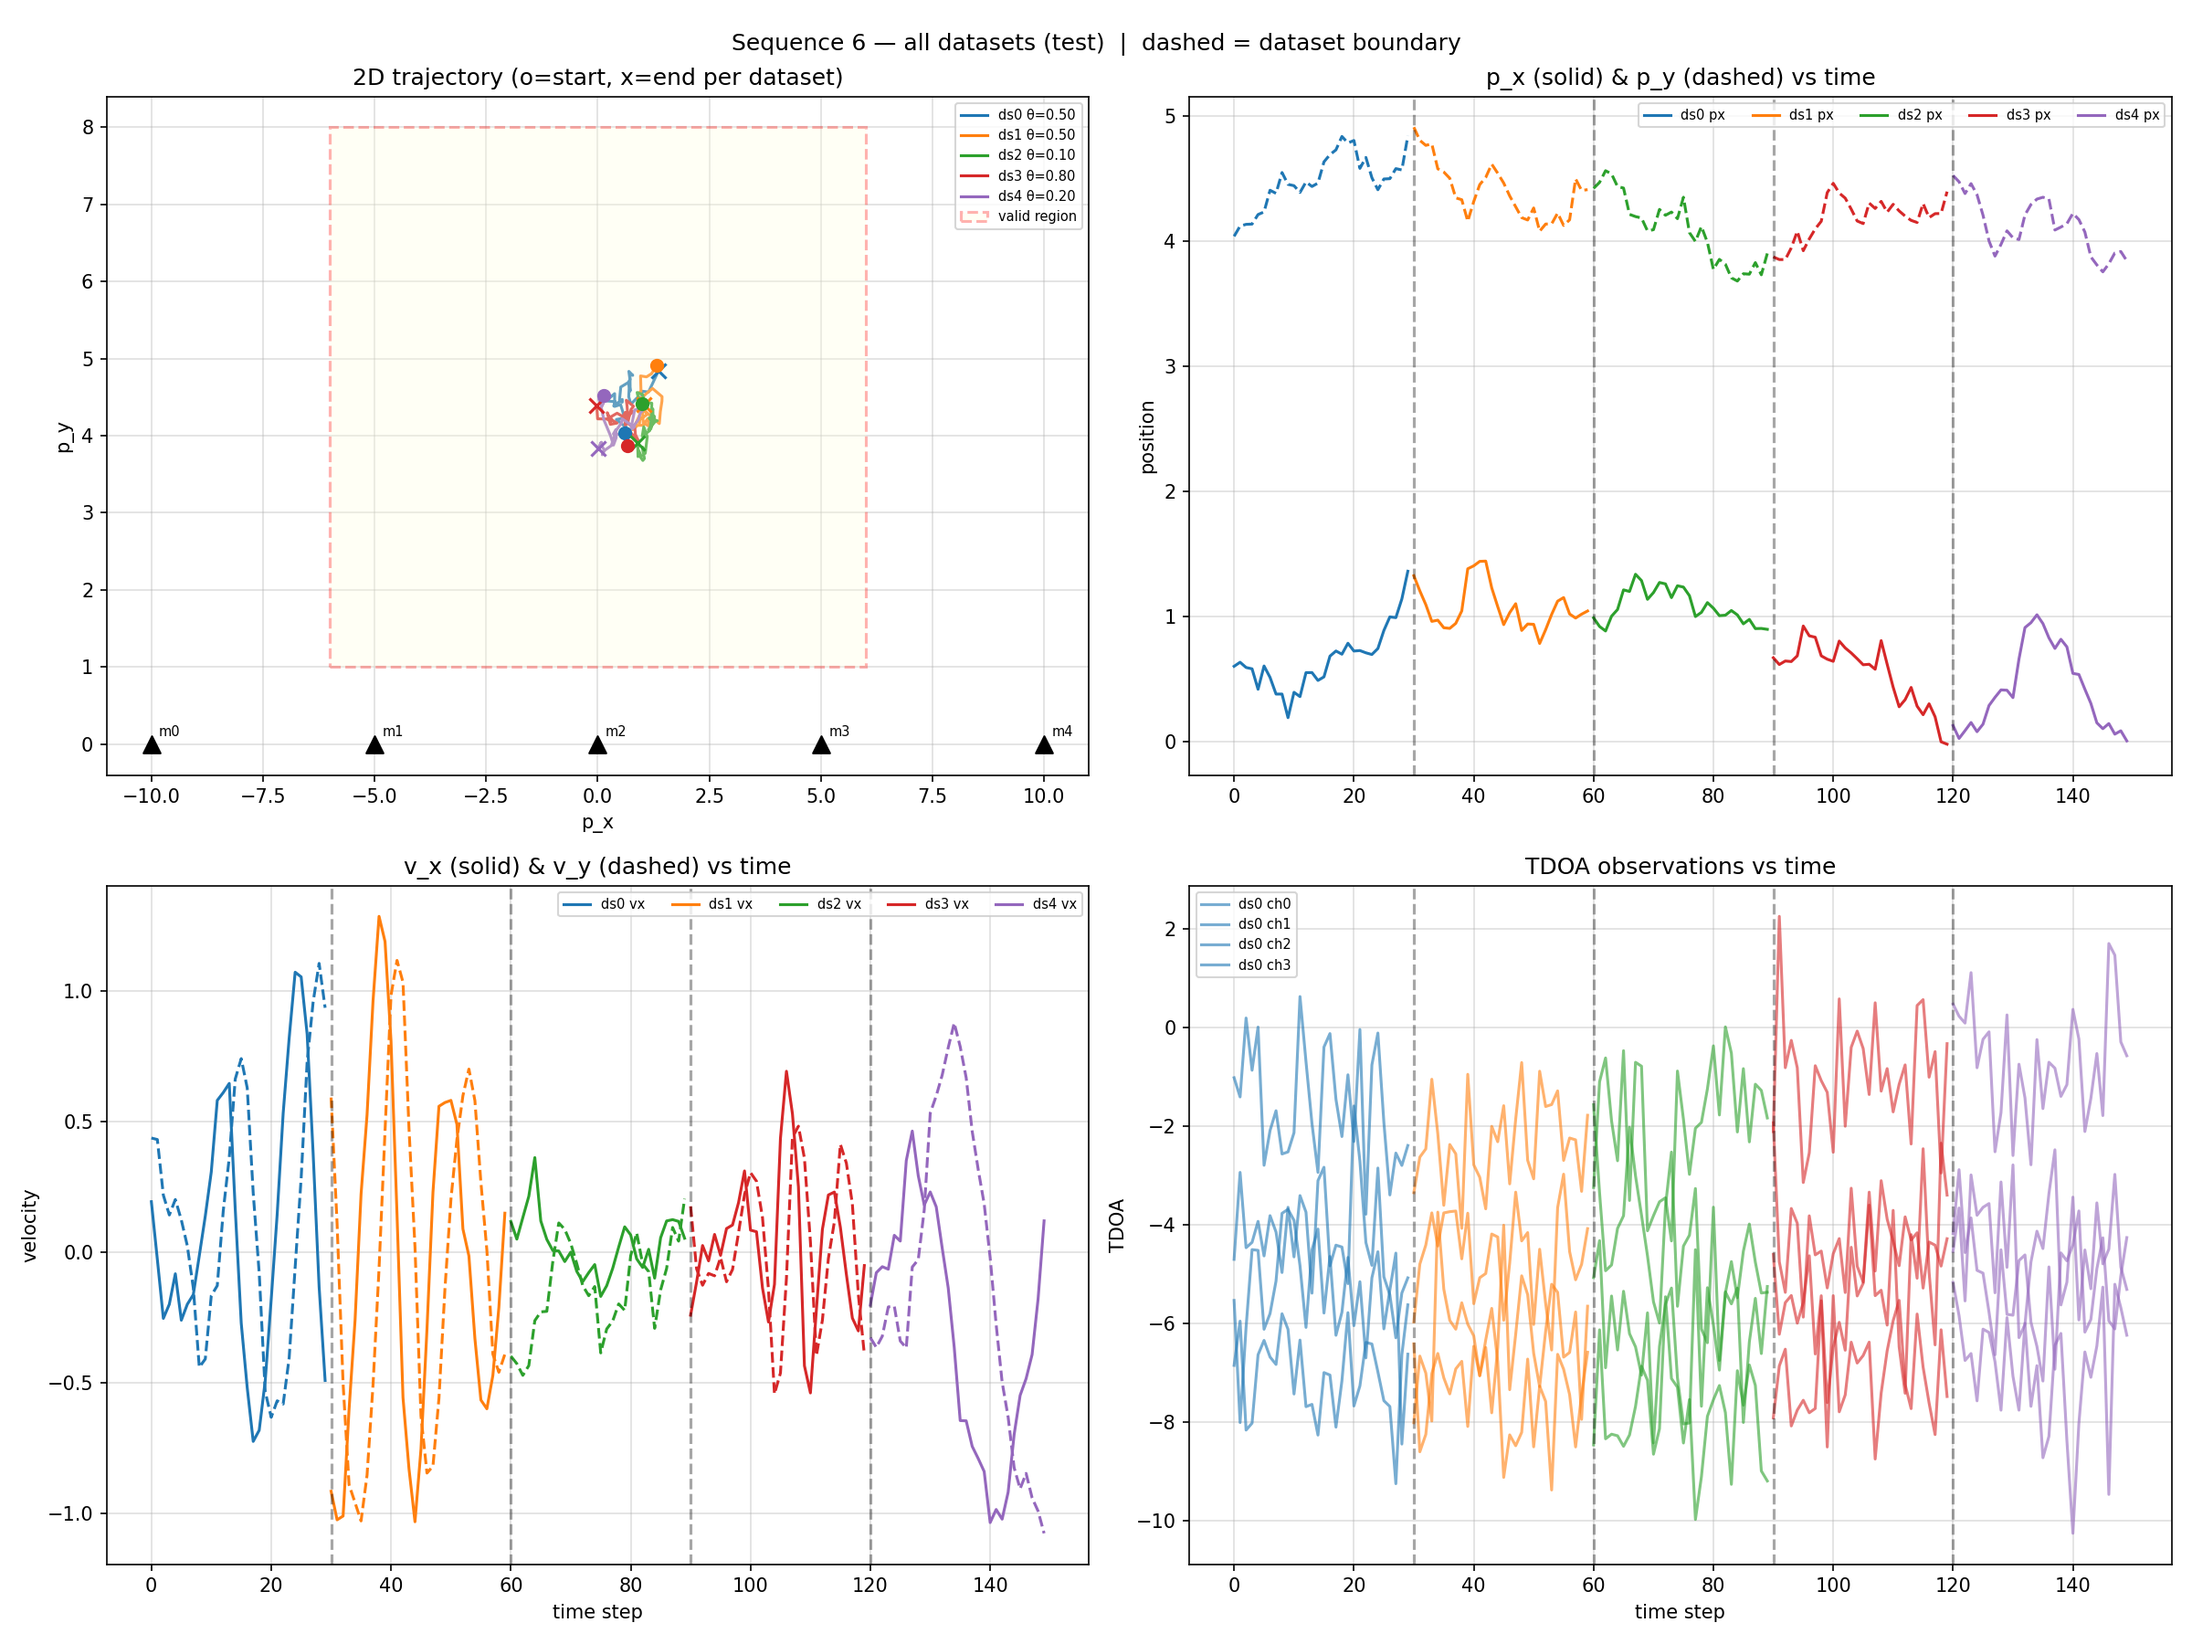
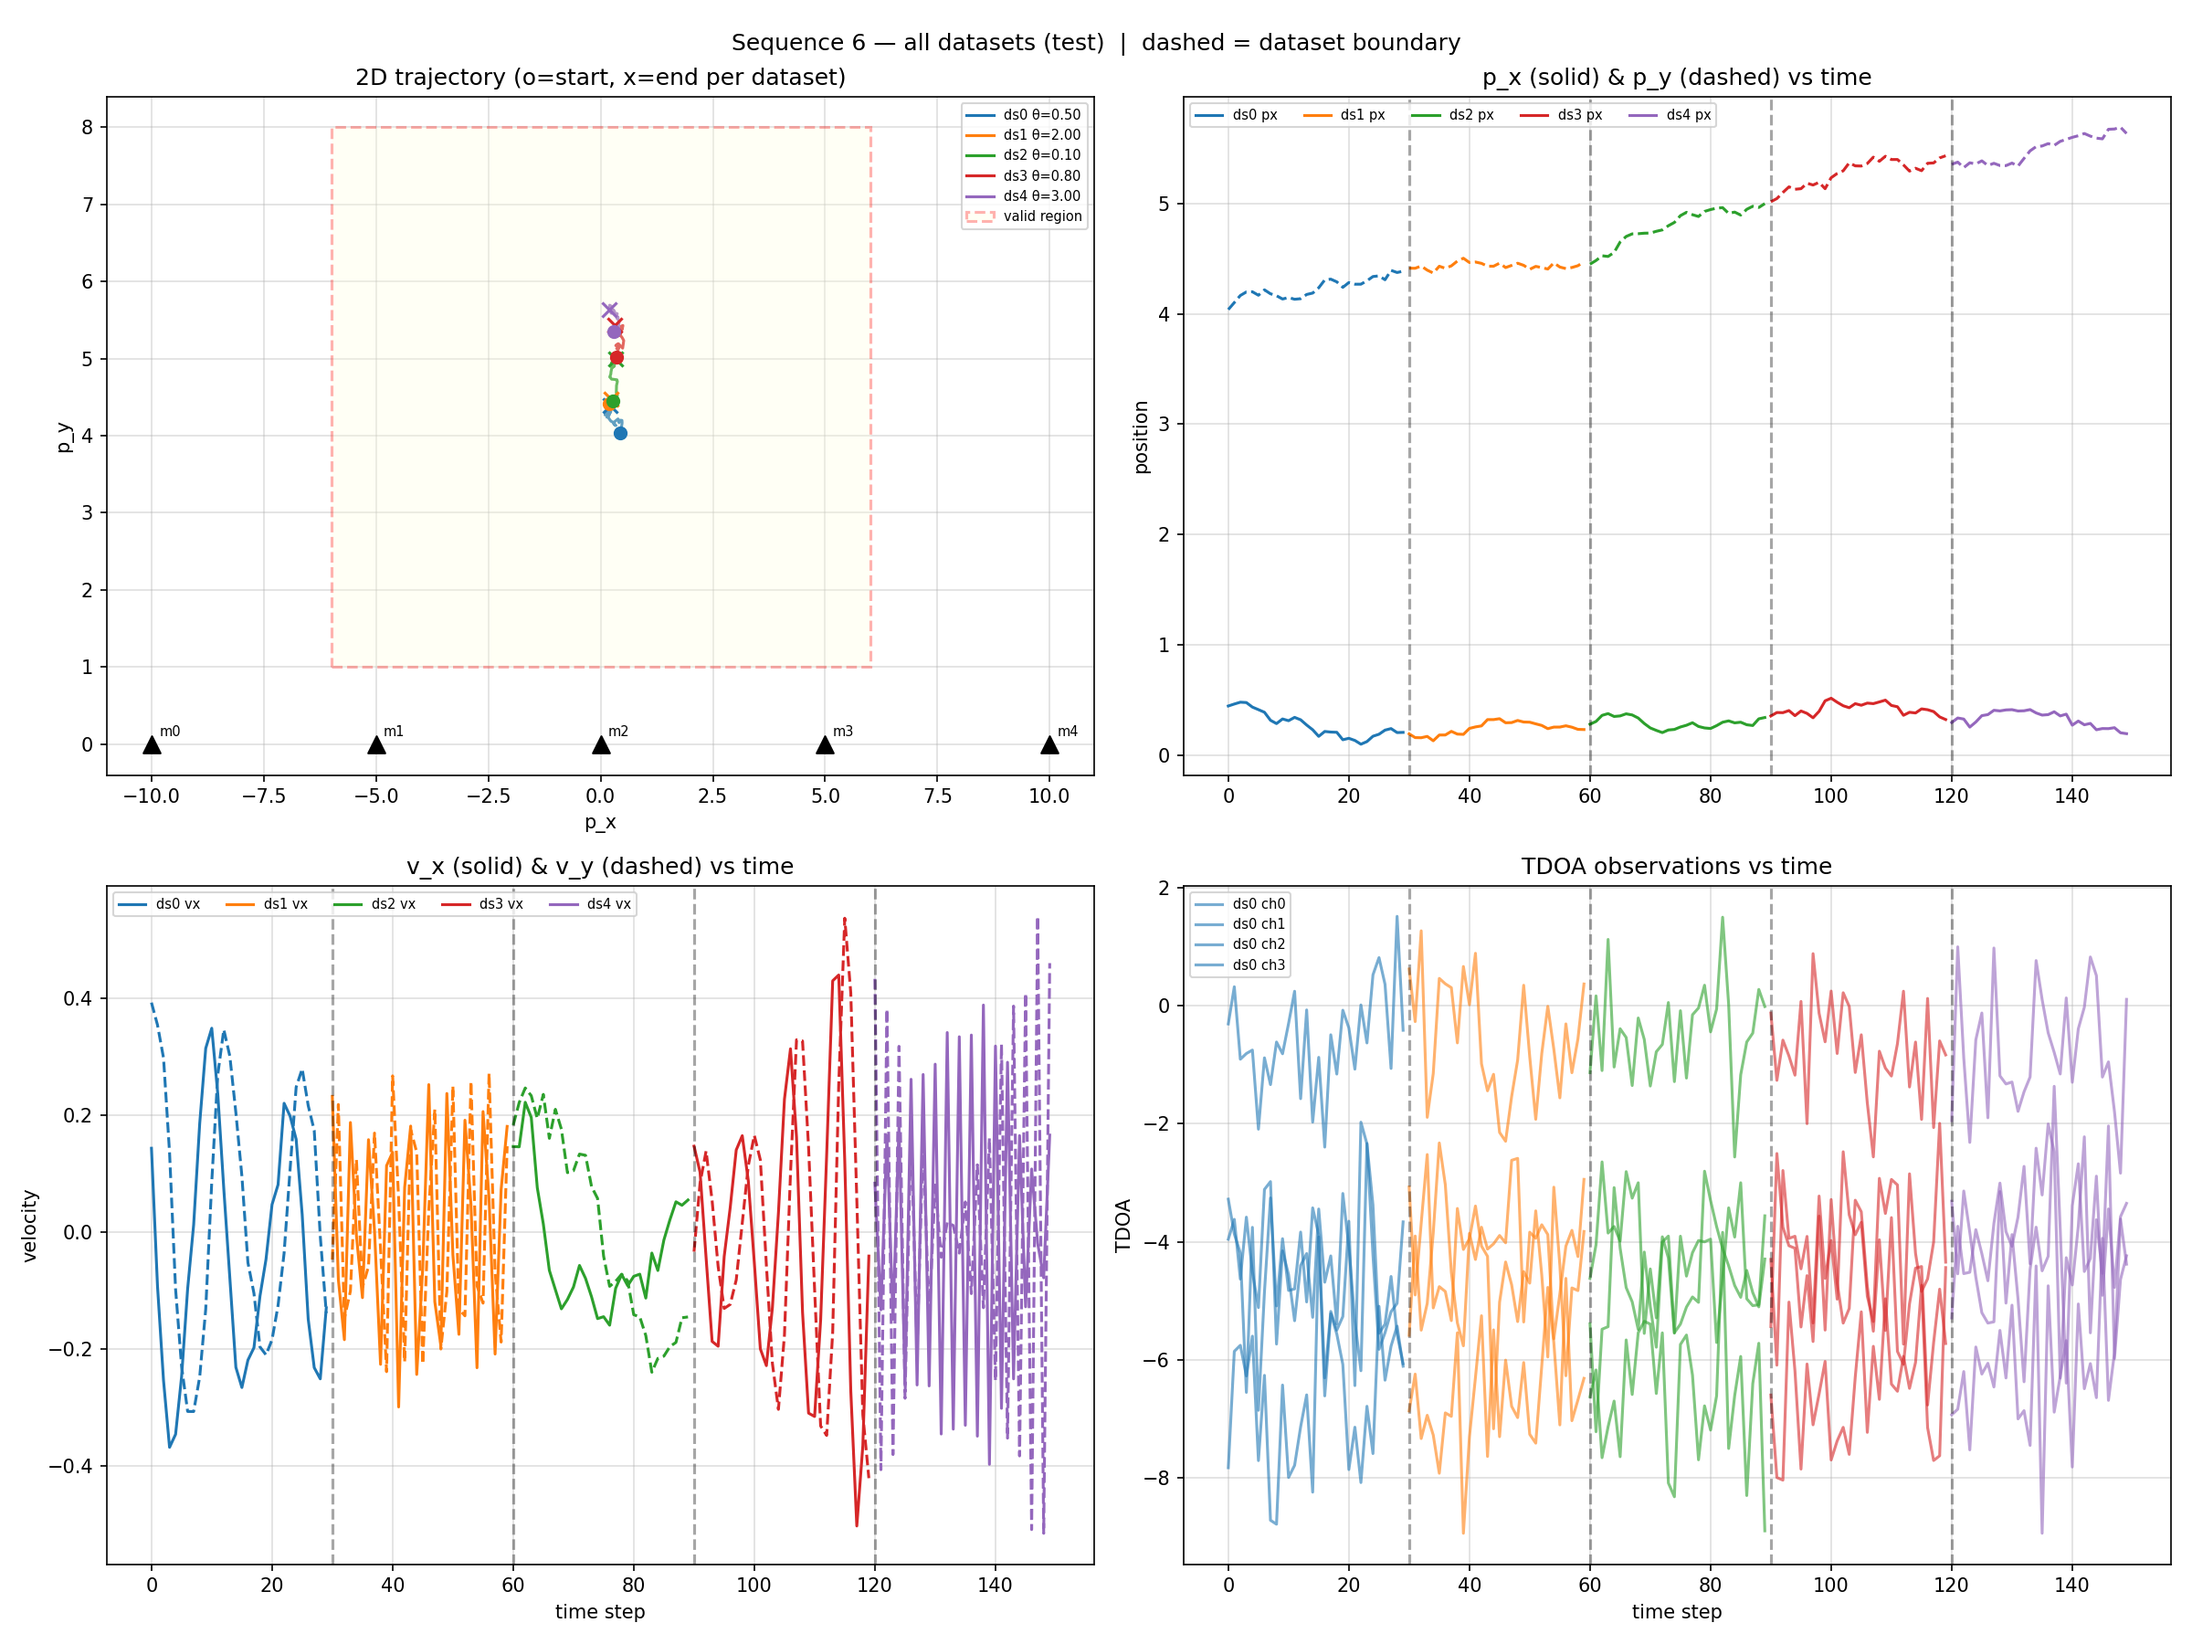
f

diff --git a/microphons_test_analytic_3_dataset.py b/microphons_test_analytic_3_dataset.py
@@ -46,11 +46,11 @@ args.T_test = 30
 
 T_test = args.T_test
 
-q2 = 0.01
+q2 = 0.001
 r2 = 1
 
 cycle              = 5
-theta_per_dataset  = [0.5, 0.5, 0.1, 0.8, 0.2]   # exact theta (rad) for each dataset
+theta_per_dataset  = [0.5, 2, 0.1, 0.8, 3]   # exact theta (rad) for each dataset
 assert len(theta_per_dataset) == cycle
 
 max_em_iter = 5

diff --git a/microphons_test_nn_3_dataset.py b/microphons_test_nn_3_dataset.py
@@ -67,7 +67,7 @@ q2 = 0.001
 r2 = 1.
 
 cycle             = 5
-theta_per_dataset = [0.5, 2, 0.1, 0.8, 3]
+theta_per_dataset = [0.5, 0.5, 0.1, 0.8, 0.2]
 # theta_per_dataset = [0.3,0.3]
 assert len(theta_per_dataset) == cycle
 
